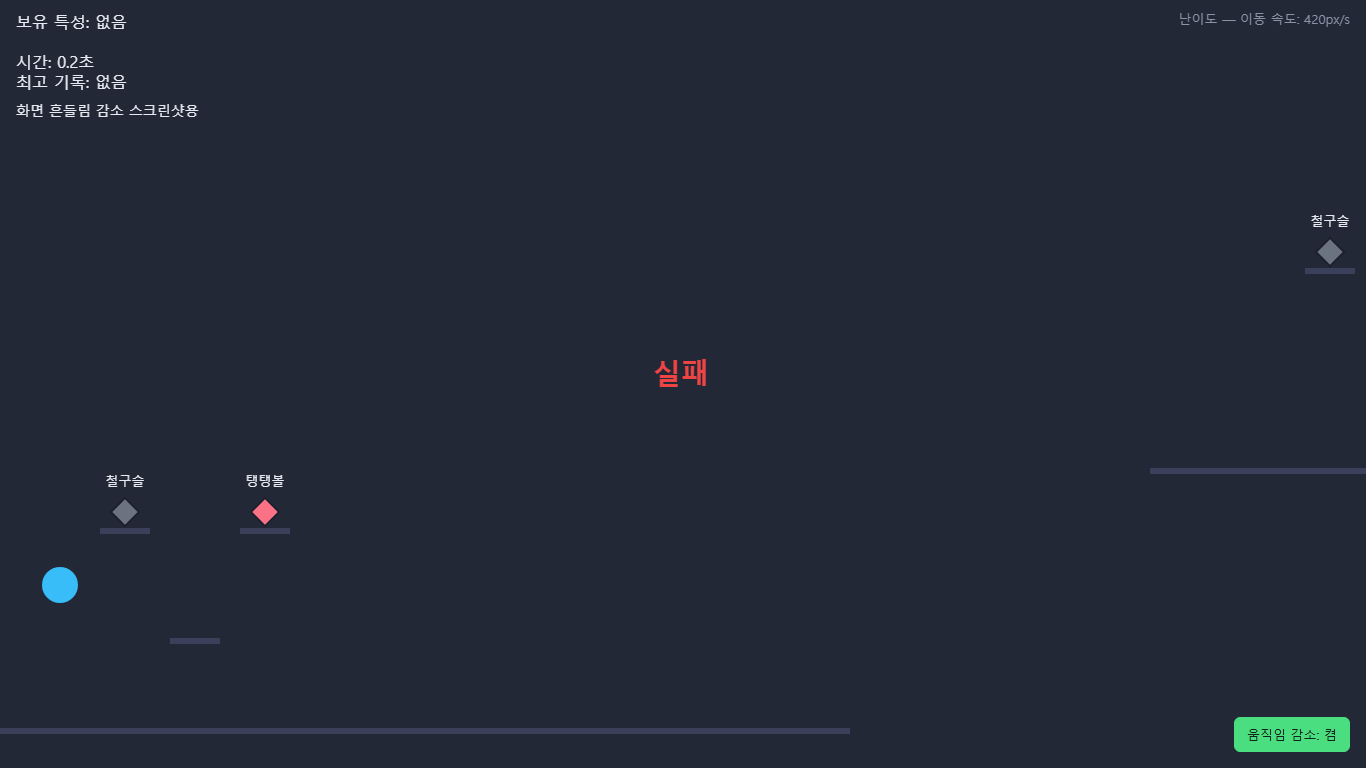
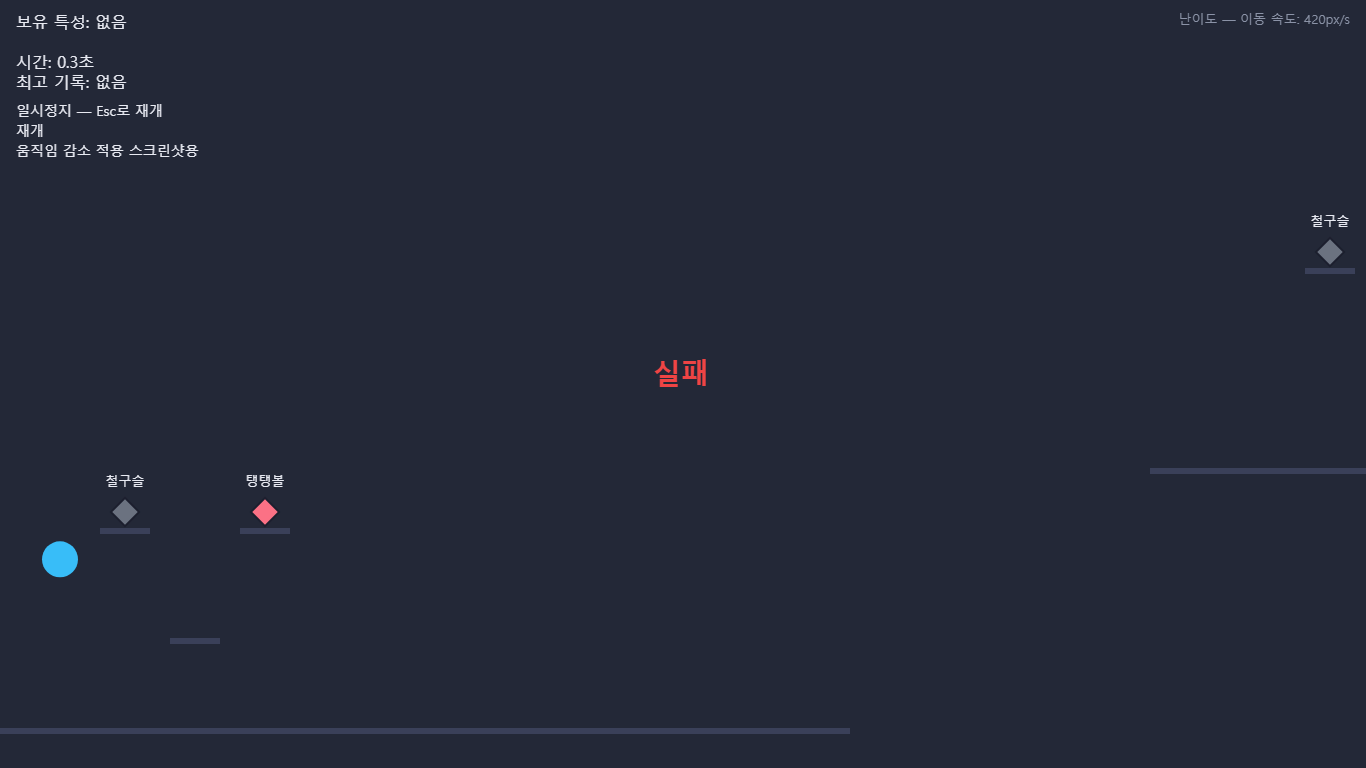
Hide the reduce-motion button except while paused
Was previously always visible (just emphasized during pause); now
it's display:none by default and only shown via #game-wrap.is-paused,
so it's not on-screen clutter during normal play. Confirmed it's also
unclickable while hidden, not just visually gone. Updates card 2/5
screenshots to match.

Changed region(s): [[0.0, 0.125, 0.1537, 0.2188], [0.8917, 0.9062, 1.0, 1.0], [0.0307, 0.6875, 0.0615, 0.7812]]

diff --git a/style.css b/style.css
@@ -26,7 +26,11 @@ html, body {
   touch-action: none;
 }
 
+/* hidden outside of pause -- only shown while paused (see #game-wrap.is-paused below) so it doesn't
+   sit on screen as HUD clutter during normal play. display:none also drops it from tab order and
+   click hit-testing while hidden, not just visually. */
 #motion-toggle {
+  display: none;
   position: absolute;
   right: 16px;
   bottom: 16px;
@@ -39,7 +43,7 @@ html, body {
   border-radius: 6px;
   cursor: pointer;
   z-index: 1;
-  transition: transform 0.15s, box-shadow 0.15s;
+  box-shadow: 0 0 0 3px rgba(232, 234, 242, 0.35), 0 4px 16px rgba(0, 0, 0, 0.5);
 }
 
 #motion-toggle:hover {
@@ -52,11 +56,6 @@ html, body {
   border-color: #4ade80;
 }
 
-/* the in-canvas pause overlay dims everything it draws, but this button is a separate DOM element
-   sitting on top of the canvas -- without this it stays readable but easy to miss against the dim.
-   while paused it's worth surfacing clearly, since pausing to go fiddle with settings is exactly
-   when a player reaches for it. */
 #game-wrap.is-paused #motion-toggle {
-  transform: scale(1.12);
-  box-shadow: 0 0 0 3px rgba(232, 234, 242, 0.35), 0 4px 16px rgba(0, 0, 0, 0.5);
+  display: block;
 }

diff --git a/PROGRESS.md b/PROGRESS.md
@@ -143,7 +143,7 @@
 
 **연결한 사건**: 실패(천장 충돌·구덩이 추락·바닥 추락 전부 포함) → 화면 흔들림(0.35초, 감쇠하며 랜덤 오프셋).
 
-**선택권**: 화면 우측 하단 "움직임 감소" 버튼. 켜면 `render()`의 흔들림 오프셋 계산이 즉시 건너뛰어져 흔들림이 멈추고, 실패 판정·재시작 타이머 등 핵심 로직은 전혀 영향받지 않는다(HUD·"실패" 문구는 애초에 흔들리는 레이어 밖이라 항상 고정).
+**선택권**: "움직임 감소" 버튼. 평소엔 숨겨져 있다가 Esc로 일시정지할 때만 화면 우측 하단에 나타난다(`#game-wrap.is-paused`). 켜면 `render()`의 흔들림 오프셋 계산이 즉시 건너뛰어져 흔들림이 멈추고, 실패 판정·재시작 타이머 등 핵심 로직은 전혀 영향받지 않는다(HUD·"실패" 문구는 애초에 흔들리는 레이어 밖이라 항상 고정).
 
 **검증 결과** (Playwright, 4건 모두 PASS)
 - 실패 발생 시 흔들림 타이머 설정됨, 콘솔 오류 0건
@@ -178,7 +178,7 @@
 
 | 날짜 | 내용 |
 |---|---|
-| 2026-08-19 | "움직임 감소" 버튼이 일시정지 화면의 어두운 오버레이 위에서 눈에 잘 안 띈다는 피드백을 받아, 일시정지 중엔 버튼이 확대+테두리 강조되도록 수정(`#game-wrap.is-paused #motion-toggle`) |
+| 2026-08-19 | "움직임 감소" 버튼을 평소엔 완전히 숨기고 Esc 일시정지 중에만 나타나도록 변경(직전엔 항상 보이되 일시정지 때만 강조하는 방식이었으나, 평소엔 아예 안 보이게 해달라는 요청으로 `display: none` 기본 + `#game-wrap.is-paused`일 때만 표시로 수정). `display:none`이라 숨겨진 동안은 클릭도 안 됨을 확인 |
 | 2026-08-19 | 카드 5 완료: 실패(천장·구덩이·바닥 추락 전부) 시 화면 흔들림(0.35초 감쇠) 추가, 우측 하단 "움직임 감소" 버튼으로 즉시 켜고 끌 수 있음. 흔들림은 카메라 오프셋에만 적용되고 HUD·판정 로직은 별도 레이어라 영향 없음. Playwright 4건 검증(흔들림 트리거, 버튼 토글, 감소 시 판정 정상 동작, 스크린샷) |
 | 2026-08-19 | Esc 수동 일시정지 추가(사용자 요청) — 누르면 입력·물리·타이머가 완전히 멈추고 "일시정지" 오버레이 표시, 다시 누르면 재개. 최고 기록 저장은 재검증 결과 정상 작동(배포 사이트에서 클리어→저장→새로고침 후 유지 확인) — 레벨이 어려워 실제로 클리어를 못 해서 "없음"으로 보였을 가능성 |
 | 2026-08-19 | 카드 4 완료: 최고 클리어 기록을 localStorage에 저장, 새 판 초기화와 분리. 없음/빈 문자열/손상 텍스트/필드 누락/타입 오류/정상값 등 8가지 저장 상태를 Playwright로 검사해 모두 기본값 또는 정상 복원 확인 |
